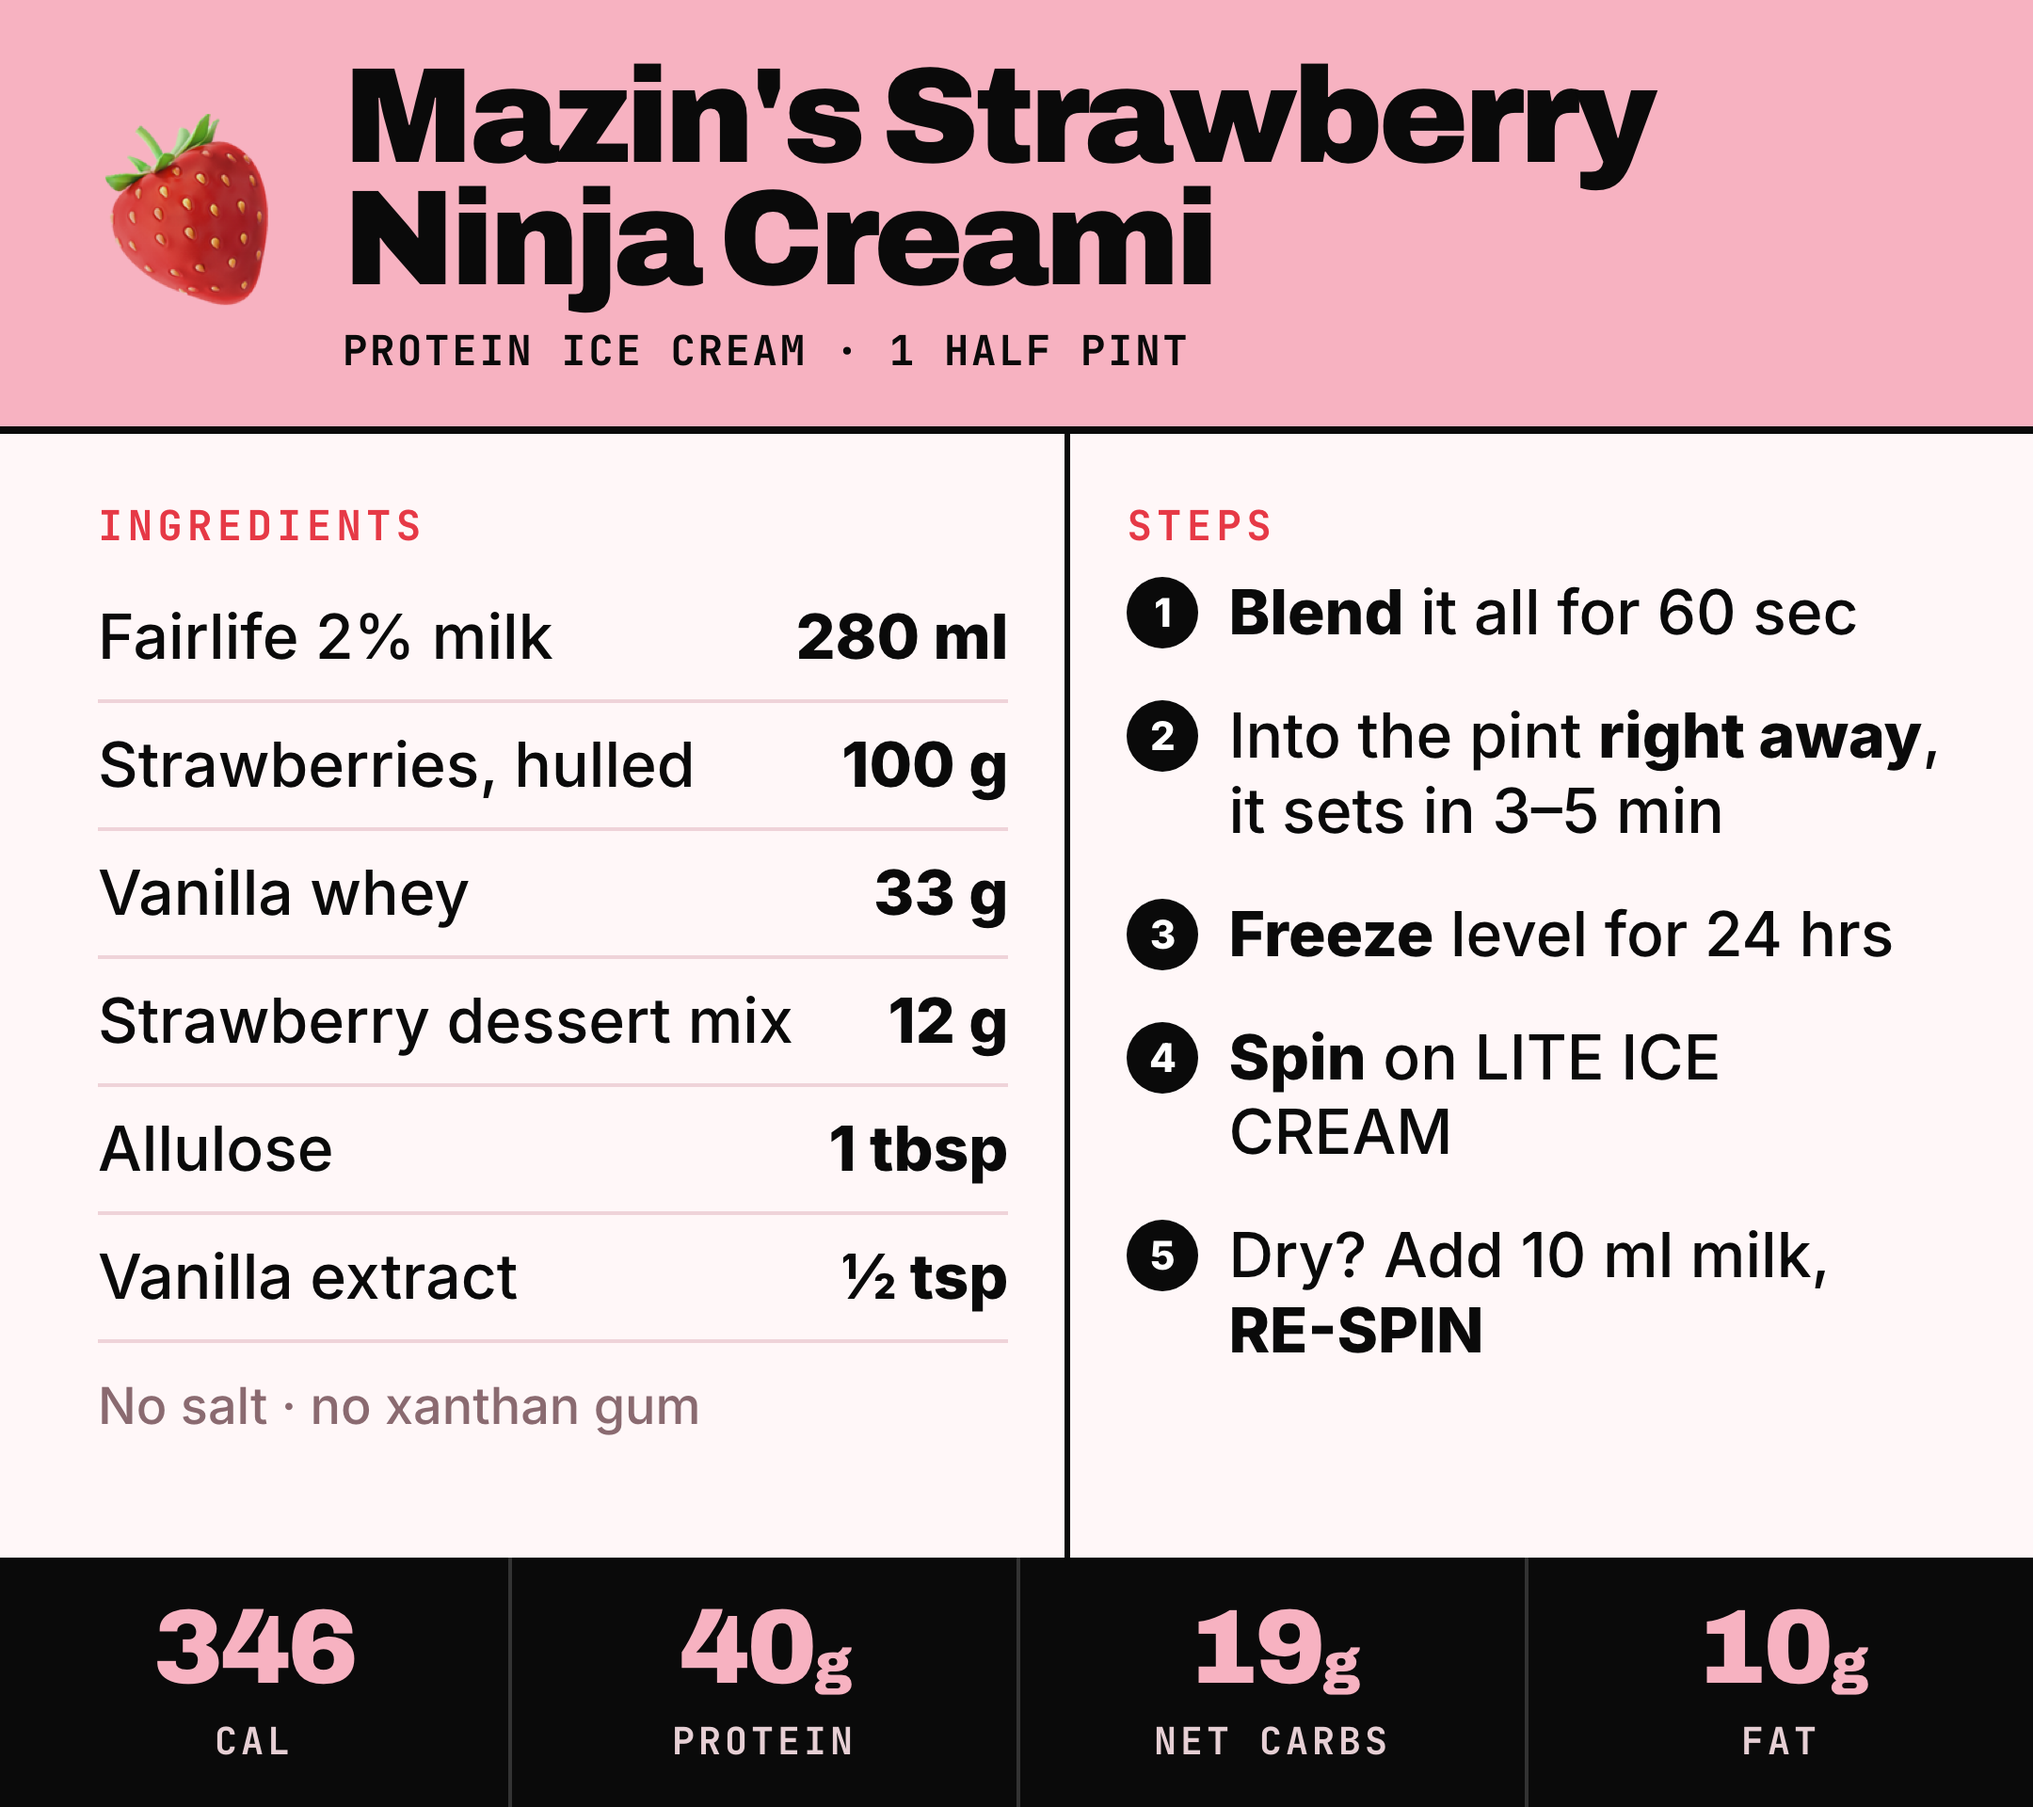
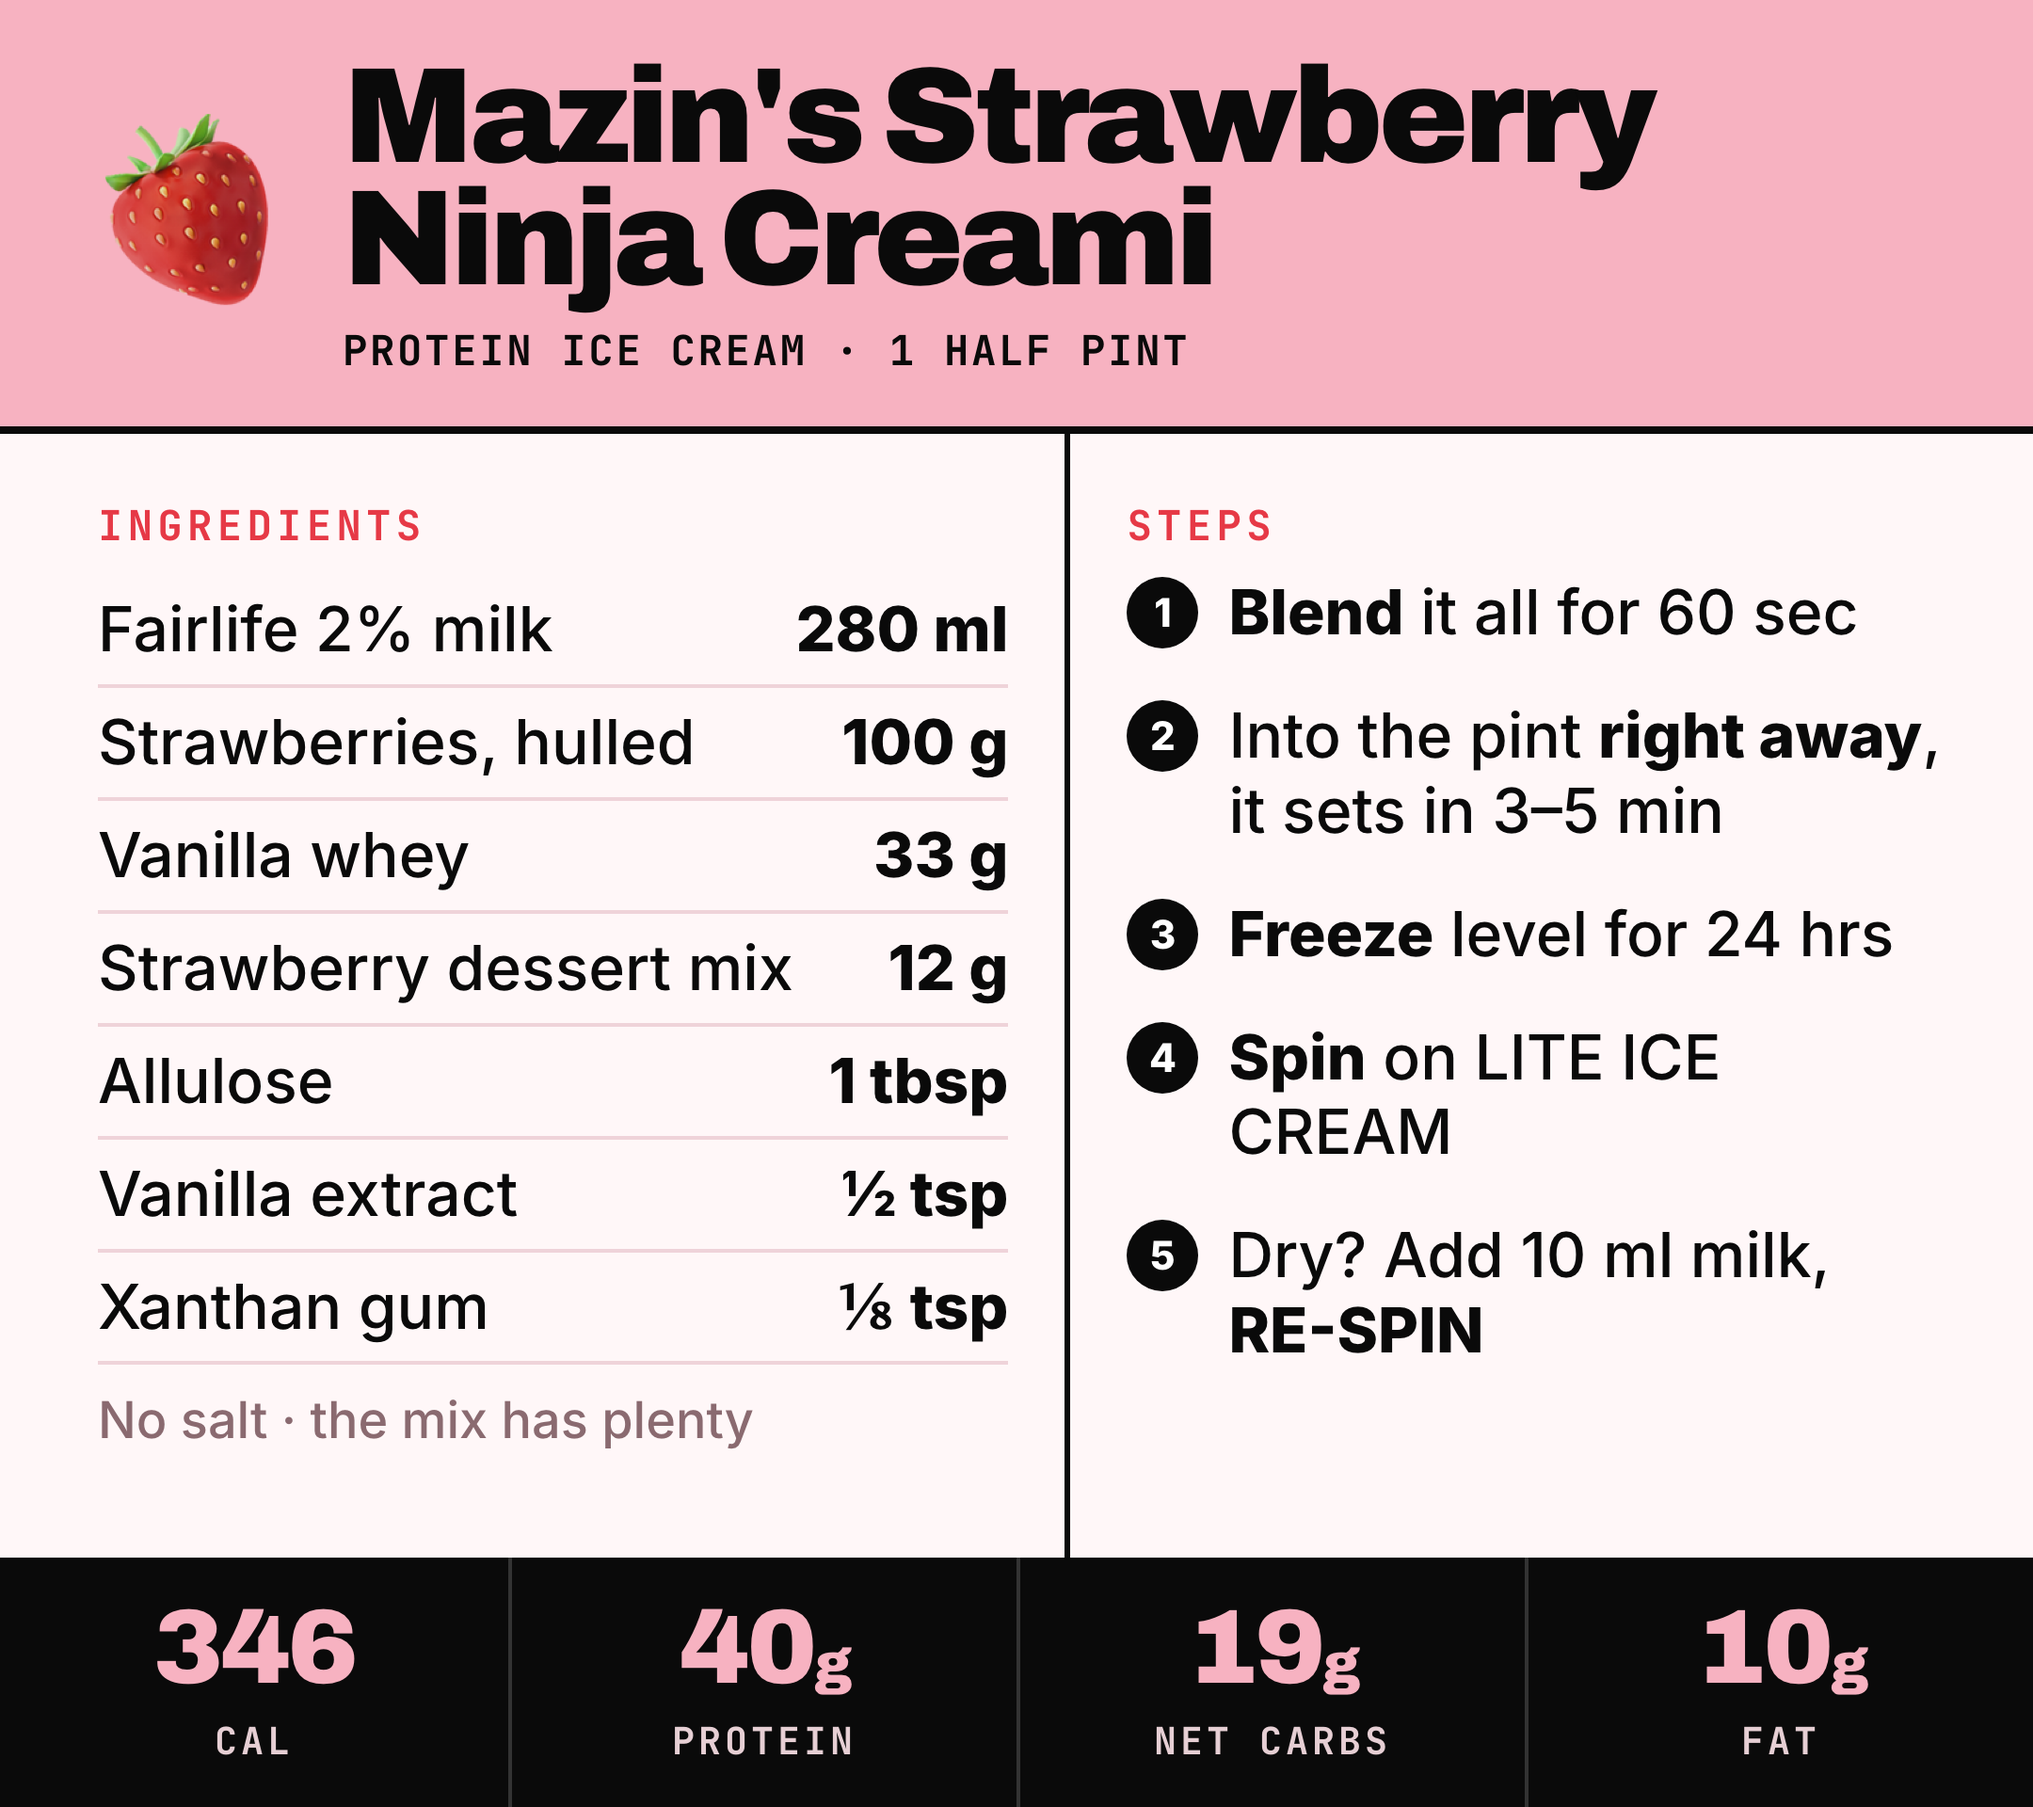
Strawberry Ninja Creami: add 1/8 tsp xanthan gum
Adds xanthan gum to the base on /recipes (article and JSON-LD), drops it
from the leave-out list, and re-renders the story card with the new row.

Changed region(s): [[0.031, 0.3125, 0.4963, 0.8125]]

diff --git a/recipes/index.html b/recipes/index.html
@@ -427,7 +427,7 @@
   "@context": "https://schema.org",
   "@type": "Recipe",
   "name": "Strawberry Protein Ice Cream",
-  "description": "A Ninja Creami half pint with 40 g of protein for 346 calories. Fresh strawberries and one serving of strawberry dessert mix do the thickening.",
+  "description": "A Ninja Creami half pint with 40 g of protein for 346 calories. Fresh strawberries, one serving of strawberry dessert mix and 1/8 tsp of xanthan gum do the thickening.",
   "author": { "@type": "Person", "name": "Mazin Kanuga" },
   "recipeCategory": "Dessert",
   "recipeYield": "1 half pint",
@@ -439,10 +439,11 @@
     "33 g vanilla whey protein, 1 scoop (Leanfit)",
     "12 g Simply Desserts strawberry mix, one serving",
     "1 tbsp allulose",
-    "1/2 tsp vanilla extract"
+    "1/2 tsp vanilla extract",
+    "1/8 tsp xanthan gum"
   ],
   "recipeInstructions": [
-    { "@type": "HowToStep", "name": "Blend", "text": "Put all ingredients in the blender and blend for 60 seconds." },
+    { "@type": "HowToStep", "name": "Blend", "text": "Put all ingredients in the blender, with the xanthan gum on top of the dry powders, not into the milk, so it does not lump. Blend for 60 seconds." },
     { "@type": "HowToStep", "name": "Fill", "text": "Pour the base into the pint immediately. The starch starts to set in 3 to 5 minutes." },
     { "@type": "HowToStep", "name": "Freeze", "text": "Freeze level for 24 hours." },
     { "@type": "HowToStep", "name": "Spin", "text": "Select LITE ICE CREAM." },
@@ -2429,7 +2430,7 @@
       <h2 class="recipe-title"><a class="recipe-anchor" href="#strawberry-ice-cream">Strawberry<br>Protein&nbsp;Ice&nbsp;Cream&nbsp;<span class="recipe-emoji" aria-hidden="true">🍓</span></a></h2>
       <p class="recipe-note">
         A half pint with 40 g of protein for 346 calories. The strawberries and one serving of the
-        dessert mix give all the body it needs — no salt, no xanthan gum.
+        dessert mix do most of the thickening, and ⅛ tsp of xanthan gum does the rest — no salt.
       </p>
     </div>
 
@@ -2465,10 +2466,10 @@
           <li><span class="ing-name">Simply Desserts strawberry mix<span class="opt">One serving · not the box ratio</span></span><span class="ing-qty">12 g</span></li>
           <li><span class="ing-name">Allulose</span><span class="ing-qty">1 tbsp</span></li>
           <li><span class="ing-name">Vanilla extract</span><span class="ing-qty">½ tsp</span></li>
+          <li><span class="ing-name">Xanthan gum<span class="opt">Level, not heaped</span></span><span class="ing-qty">⅛ tsp</span></li>
 
           <li class="ing-group">Leave out</li>
           <li><span class="ing-name">Salt<span class="opt">The mix has 284 mg sodium per 12 g · that's enough</span></span><span class="ing-qty">None</span></li>
-          <li><span class="ing-name">Xanthan gum<span class="opt">The corn starch and soluble fibre give enough body</span></span><span class="ing-qty">None</span></li>
         </ul>
       </section>
 
@@ -2480,7 +2481,8 @@
           <div>
             <div class="step-title">Blend · 60 sec</div>
             <p class="step-body">
-              Everything into the blender at once and run it for a full minute.
+              Everything into the blender at once, with the xanthan gum sprinkled onto the dry powders,
+              not into the milk — that's what keeps it from lumping. Run it for a full minute.
             </p>
           </div>
         </div>
@@ -2529,7 +2531,8 @@
           <div class="callout-label">Numbers</div>
           <p>
             346 cal · 40 g protein · 39 g carb · 19 g net carb · 10 g fat · 14 g sugar · 550 mg sodium.
-            Net carb takes out the allulose, the 5 g of erythritol in the mix, and the fibre.
+            Net carb takes out the allulose, the 5 g of erythritol in the mix, and the fibre. The xanthan
+            gum is about 1 calorie of fibre, so the totals don't move.
           </p>
         </div>
 

diff --git a/recipes/strawberry-story-card.html b/recipes/strawberry-story-card.html
@@ -19,9 +19,9 @@
   .col + .col { border-left:3px solid var(--ink); padding:34px 48px 24px 30px; }
   h2 { font-family:'JetBrains Mono',monospace; font-size:22px; font-weight:700; letter-spacing:.12em; text-transform:uppercase; color:var(--red); margin-bottom:12px; }
   .ing { list-style:none; }
-  .ing li { display:flex; justify-content:space-between; gap:10px; font-size:33px; font-weight:500; line-height:1.15; padding:14px 0; border-bottom:2px solid #efd3d9; }
+  .ing li { display:flex; justify-content:space-between; gap:10px; font-size:33px; font-weight:500; line-height:1.15; padding:10px 0; border-bottom:2px solid #efd3d9; }
   .ing li b { font-weight:800; white-space:nowrap; }
-  .ing li.no { color:#8a6a70; border-bottom:0; font-size:27px; padding-top:18px; }
+  .ing li.no { color:#8a6a70; border-bottom:0; font-size:27px; padding-top:14px; }
   .steps { list-style:none; counter-reset:s; }
   .steps li { counter-increment:s; position:relative; padding-left:54px; font-size:33px; font-weight:500; line-height:1.2; margin:0 0 26px; }
   .steps li::before { content:counter(s); position:absolute; left:0; top:1px; width:38px; height:38px; border-radius:50%; background:var(--ink); color:#fff; font-size:21px; font-weight:800; display:flex; align-items:center; justify-content:center; }
@@ -54,7 +54,8 @@
         <li>Strawberry dessert mix <b>12 g</b></li>
         <li>Allulose <b>1 tbsp</b></li>
         <li>Vanilla extract <b>½ tsp</b></li>
-        <li class="no">No salt · no xanthan gum</li>
+        <li>Xanthan gum <b>⅛ tsp</b></li>
+        <li class="no">No salt · the mix has plenty</li>
       </ul>
     </div>
     <div class="col">
